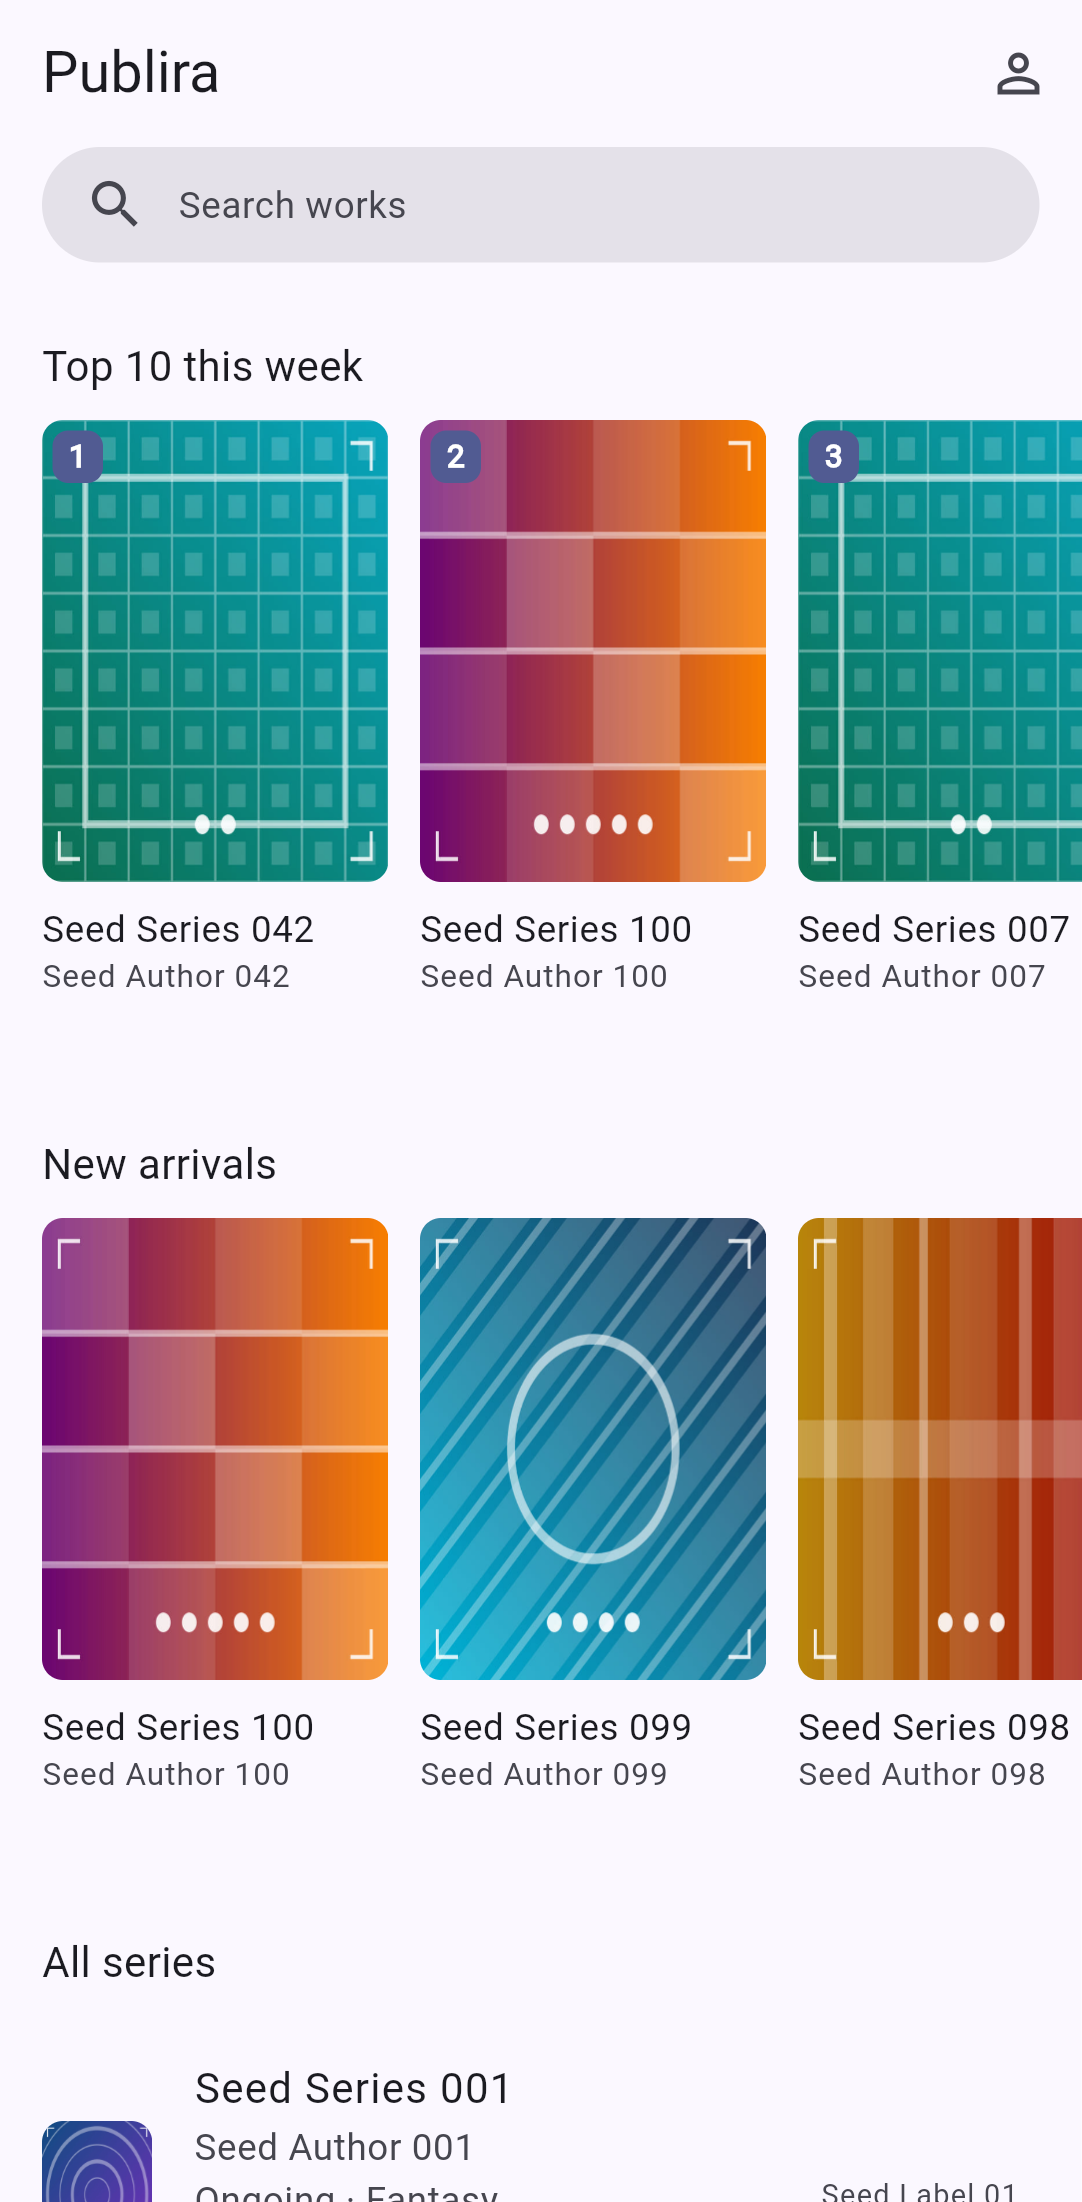
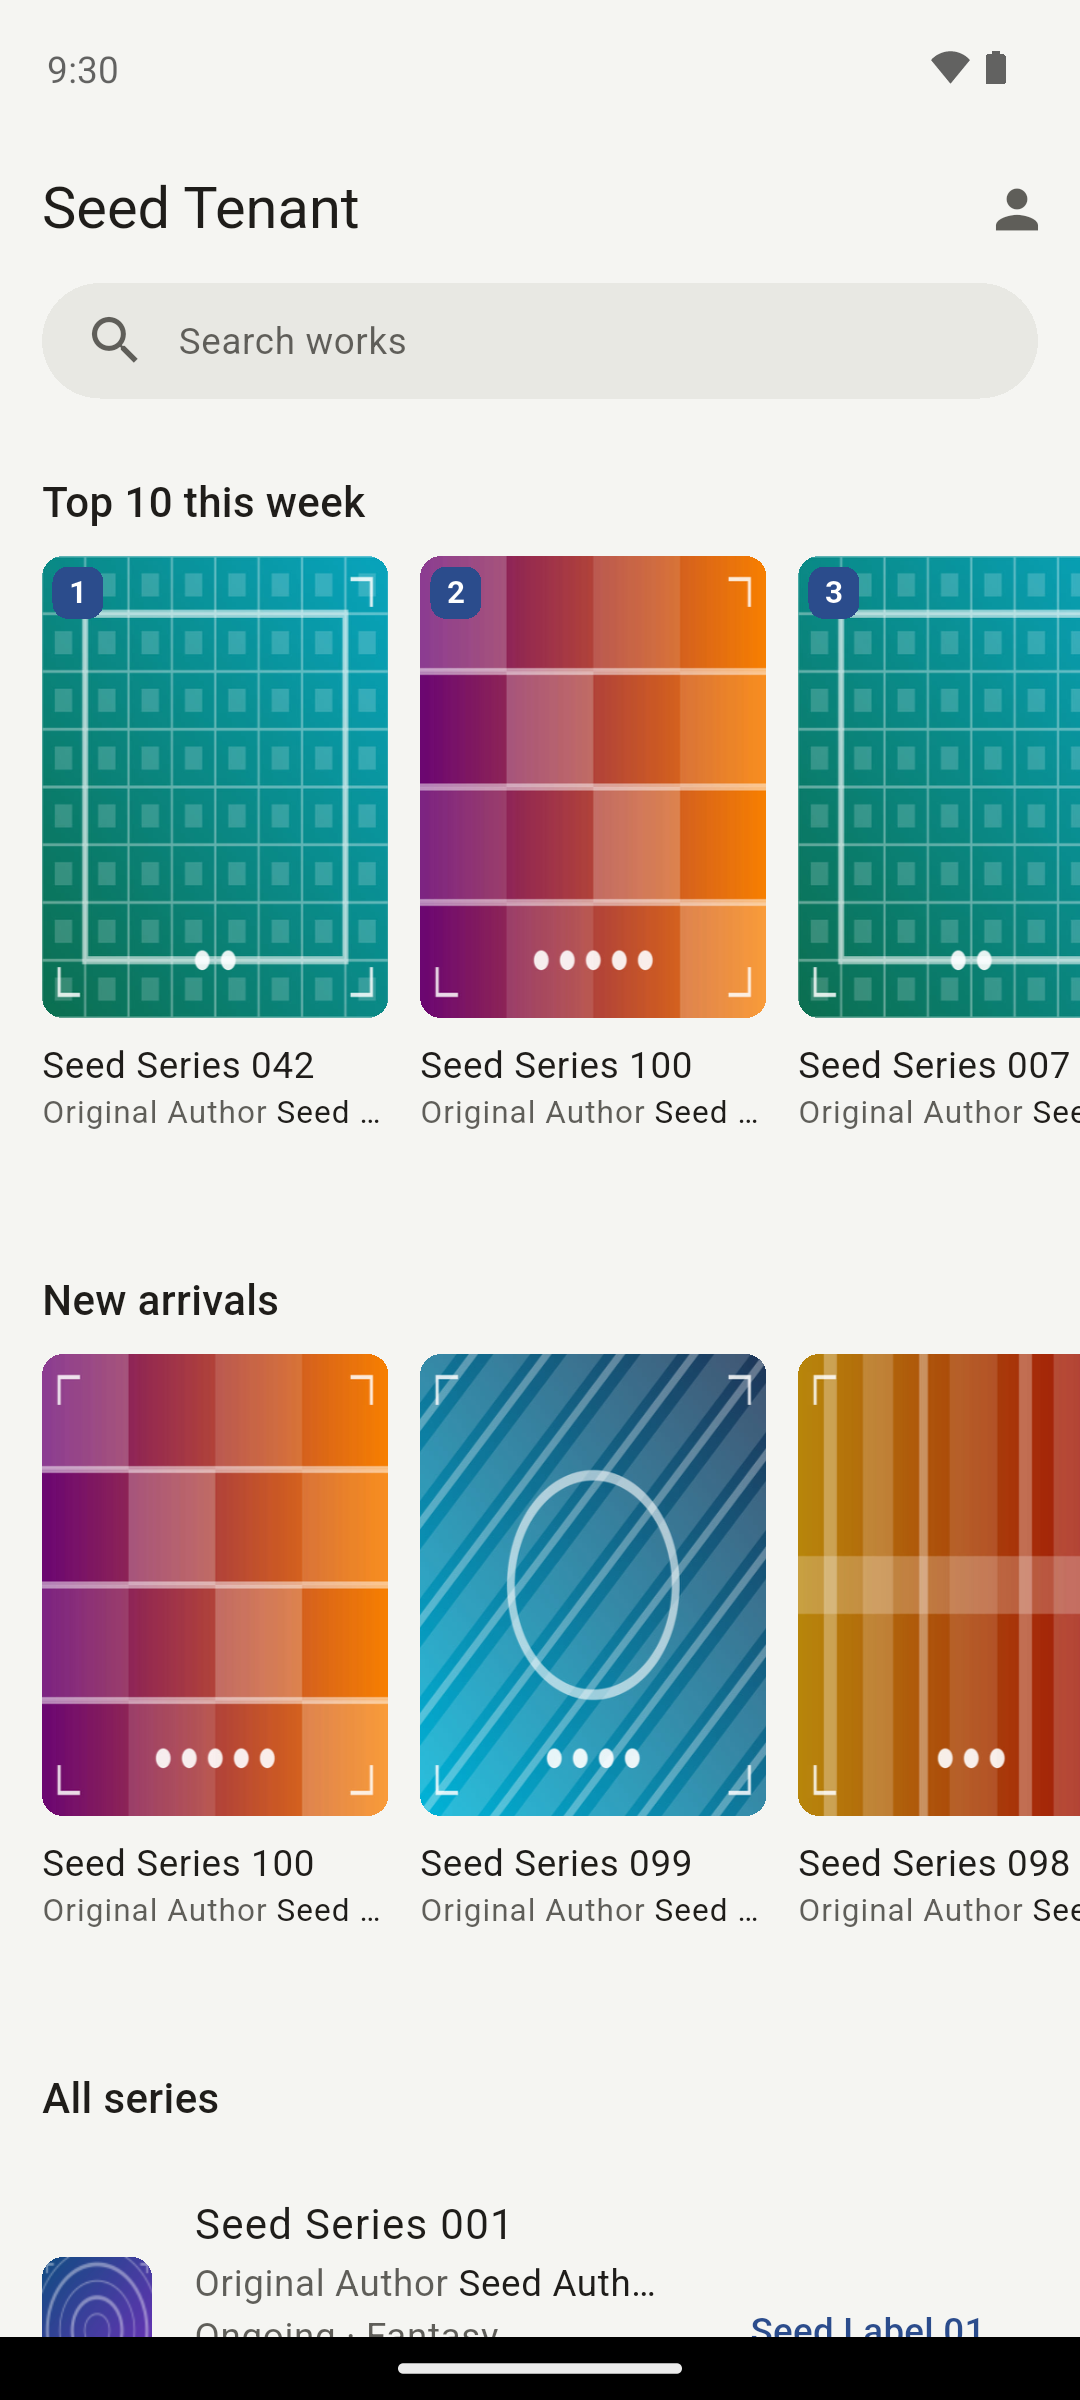
feat: show the mobile app as it stands today (#63)
## Summary

The mobile app section still showed the three screens taken for #50,
before the app carried the tenant's name and theme. Since then the app
has gained search across series, authors, and labels; author and label
screens; follows; purchases through the site's Stripe Checkout; push
notifications; and episodes saved encrypted on the device for reading
offline, with a downloads screen to manage them.

The app screens are retaken on an Android emulator (Pixel 7 hardware
profile) from a profile build, so there is no debug banner, and the
status bar is held in demo mode so the clock and the signal read the
same in every shot. The data is the development seed, as it is for the
web screens, with the same ranking and fixed-date scenarios the e2e
screenshot baseline applies. Three app screens become six, laid out as
two rows of three.

| Catalog | Search | Series detail |
| --- | --- | --- |
| <img
src="https://github.com/publira/website/blob/d002e27fcb5772aa69f60e3c1993300ae7b7fc39/assets/screenshots/20-mobile-catalog.png?raw=true"
width="240" alt="The catalog under the tenant's name, with the weekly
top 10 and new arrivals shelves above the whole catalog."> | <img
src="https://github.com/publira/website/blob/d002e27fcb5772aa69f60e3c1993300ae7b7fc39/assets/screenshots/21-mobile-search.png?raw=true"
width="240" alt="Search results for Seed, with All, Series, Authors, and
Labels chips above the series group."> | <img
[…]

diff --git a/lib/screenshots.ts b/lib/screenshots.ts
@@ -20,8 +20,11 @@ import platformDashboard from "#assets/screenshots/17-platform-dashboard.png";
 import platformTenants from "#assets/screenshots/18-platform-tenants.png";
 import platformUsers from "#assets/screenshots/19-platform-users.png";
 import mobileCatalog from "#assets/screenshots/20-mobile-catalog.png";
-import mobileSeriesDetail from "#assets/screenshots/21-mobile-series-detail.png";
-import mobileViewer from "#assets/screenshots/22-mobile-episode-viewer.png";
+import mobileSearch from "#assets/screenshots/21-mobile-search.png";
+import mobileSeriesDetail from "#assets/screenshots/22-mobile-series-detail.png";
+import mobileViewer from "#assets/screenshots/23-mobile-episode-viewer.png";
+import mobileAuthor from "#assets/screenshots/24-mobile-author.png";
+import mobileDownloads from "#assets/screenshots/25-mobile-downloads.png";
 
 export interface Screenshot {
   readonly caption: string;
@@ -162,20 +165,38 @@ export const platformScreenshots: readonly Screenshot[] = [
 export const mobileScreenshots: readonly Screenshot[] = [
   {
     caption:
-      "The week's chart and the newest arrivals above the whole catalog, which asks for another page as the reader scrolls. The app calls the same public API the site does, so a tenant publishes once and both surfaces show it.",
+      "The week's chart and the newest arrivals above the whole catalog, which asks for another page as the reader scrolls. The app bar carries the tenant's own name and the colors of its theme, so a publisher's app is branded the way its site is rather than as Publira.",
     image: mobileCatalog,
     title: "Catalog",
   },
   {
     caption:
-      "Cover, credits, genres, and the episode list, with following offered behind a sign-in. An age-rated series is marked and gated here the way it is on the site.",
+      "One keyword answered by the series, the authors, and the labels that match it, the first few of each on one screen and a chip to open any group whole. Search is answered by the same public API the site's search is, so only what the tenant has published can be found.",
+    image: mobileSearch,
+    title: "Search",
+  },
+  {
+    caption:
+      "Cover, credits in the roles the tenant defined, label, and genres, with Follow for the series and for each author and Share handing out the site's own link. Each episode can be saved for reading offline, and the ones already on the device are marked before the reader loses their connection.",
     image: mobileSeriesDetail,
     title: "Series detail",
   },
   {
     caption:
-      "The episode the site serves, turned a page at a time with the controls along the bottom. What a member has opened is kept on the device as well, so an episode already read turns again with no network at all.",
+      "The episode the site serves, laid out from the spread and the reading direction the editor set on it and turned a page at a time. A paid episode is bought through the site's Stripe Checkout in the system browser, and the app opens it again once the purchase is confirmed.",
     image: mobileViewer,
     title: "Episode viewer",
+  },
+  {
+    caption:
+      "An author's portrait and profile above every published series credited to them, with the same follow the site records. A new episode from someone the reader follows arrives as a push notification that opens straight into the viewer.",
+    image: mobileAuthor,
+    title: "Author",
+  },
+  {
+    caption:
+      "What the device holds against its cap, by series, with when each episode was saved and its size. Pages are kept encrypted under a key the device mints for itself, and a paid episode stays tied to the account it was bought with, closing again once the API stops confirming the purchase.",
+    image: mobileDownloads,
+    title: "Downloads",
   },
 ];

diff --git a/app/page.tsx b/app/page.tsx
@@ -77,8 +77,8 @@ const platformFeatures: readonly Feature[] = [
     title: "What readers do feeds the catalog",
   },
   {
-    body: "A new episode reaches a follower in the reader's inbox, as mail an outbox worker delivers, and as a Web Push notification the browser shows once the reader has allowed it.",
-    title: "Notifications three ways",
+    body: "A new episode reaches a follower in the reader's inbox, as mail an outbox worker delivers, as a Web Push notification the browser shows once the reader has allowed it, and as a push notification on the phone that opens the episode in the app.",
+    title: "Notifications wherever the reader is",
   },
   {
     body: "Who did what, when, and how it turned out — filtered by period, action, or actor, with dates read as calendar days in the tenant's own time zone.",
@@ -101,7 +101,7 @@ const platformFeatures: readonly Feature[] = [
     title: "Localized end to end",
   },
   {
-    body: "A Flutter client for Android and iOS calls the same public API as the site, down to the episodes it keeps on the device so a member can read them with no network.",
+    body: "A Flutter client for Android and iOS under the tenant's own name and theme, calling the same public API as the site: search, follows, purchases through the site's checkout, and episodes saved encrypted on the device to read with no network.",
     title: "A reader app in the same repository",
   },
   {
@@ -226,7 +226,7 @@ export const Home = () => (
           />
           <AppScreenGroup
             app="mobile"
-            description="The same catalog on a phone, from one Flutter codebase for Android and iOS. It calls the public API directly rather than going through the site, and keeps what a member has opened on the device."
+            description="The same catalog on a phone, from one Flutter codebase for Android and iOS, under the tenant's own name and theme. It calls the public API directly rather than going through the site, opens from the site's links, and keeps the episodes a reader has opened or saved on the device."
             screenshots={mobileScreenshots}
             title="The mobile app"
           />

diff --git a/components/requirements-table.tsx b/components/requirements-table.tsx
@@ -25,6 +25,11 @@ const requirements = [
       "Optional. Paid episodes only: Checkout takes the payment and a signed webhook is what confirms it.",
   },
   {
+    name: "A Firebase project",
+    purpose:
+      "Optional. Push notifications to the mobile app, sent through Firebase Cloud Messaging, which relays to APNs for iOS.",
+  },
+  {
     name: "An OpenTelemetry collector",
     purpose:
       "Optional. Traces from the Next.js apps and the Go servers; off unless enabled.",

diff --git a/README.md b/README.md
@@ -51,7 +51,7 @@ import cover from "#assets/screenshots/01-host-catalog-top.png";
 
 Images are imported from `assets/` rather than served from a `public/` directory, so that Next.js derives their intrinsic size and blur placeholder at build time.
 
-Screenshots of the platform come from the development seed data that ships with its repository, and the site says so where it shows them. Never present seeded records as a real publisher's catalog. The web screens are photographed at 1440×817 in the pinned browser that repository records its own screenshot baselines in, and the app screens at a phone viewport, so one set can be refreshed without the others looking out of place beside it.
+Screenshots of the platform come from the development seed data that ships with its repository, and the site says so where it shows them. Never present seeded records as a real publisher's catalog. The web screens are photographed at 1440×817 in the pinned browser that repository records its own screenshot baselines in, and the app screens from a profile build on an Android emulator with the Pixel 7 hardware profile, its status bar held in demo mode so the clock and the signal read the same in every shot. Keeping each set to one setup is what lets one of them be refreshed without the others looking out of place beside it.
 
 ## Styling
 
